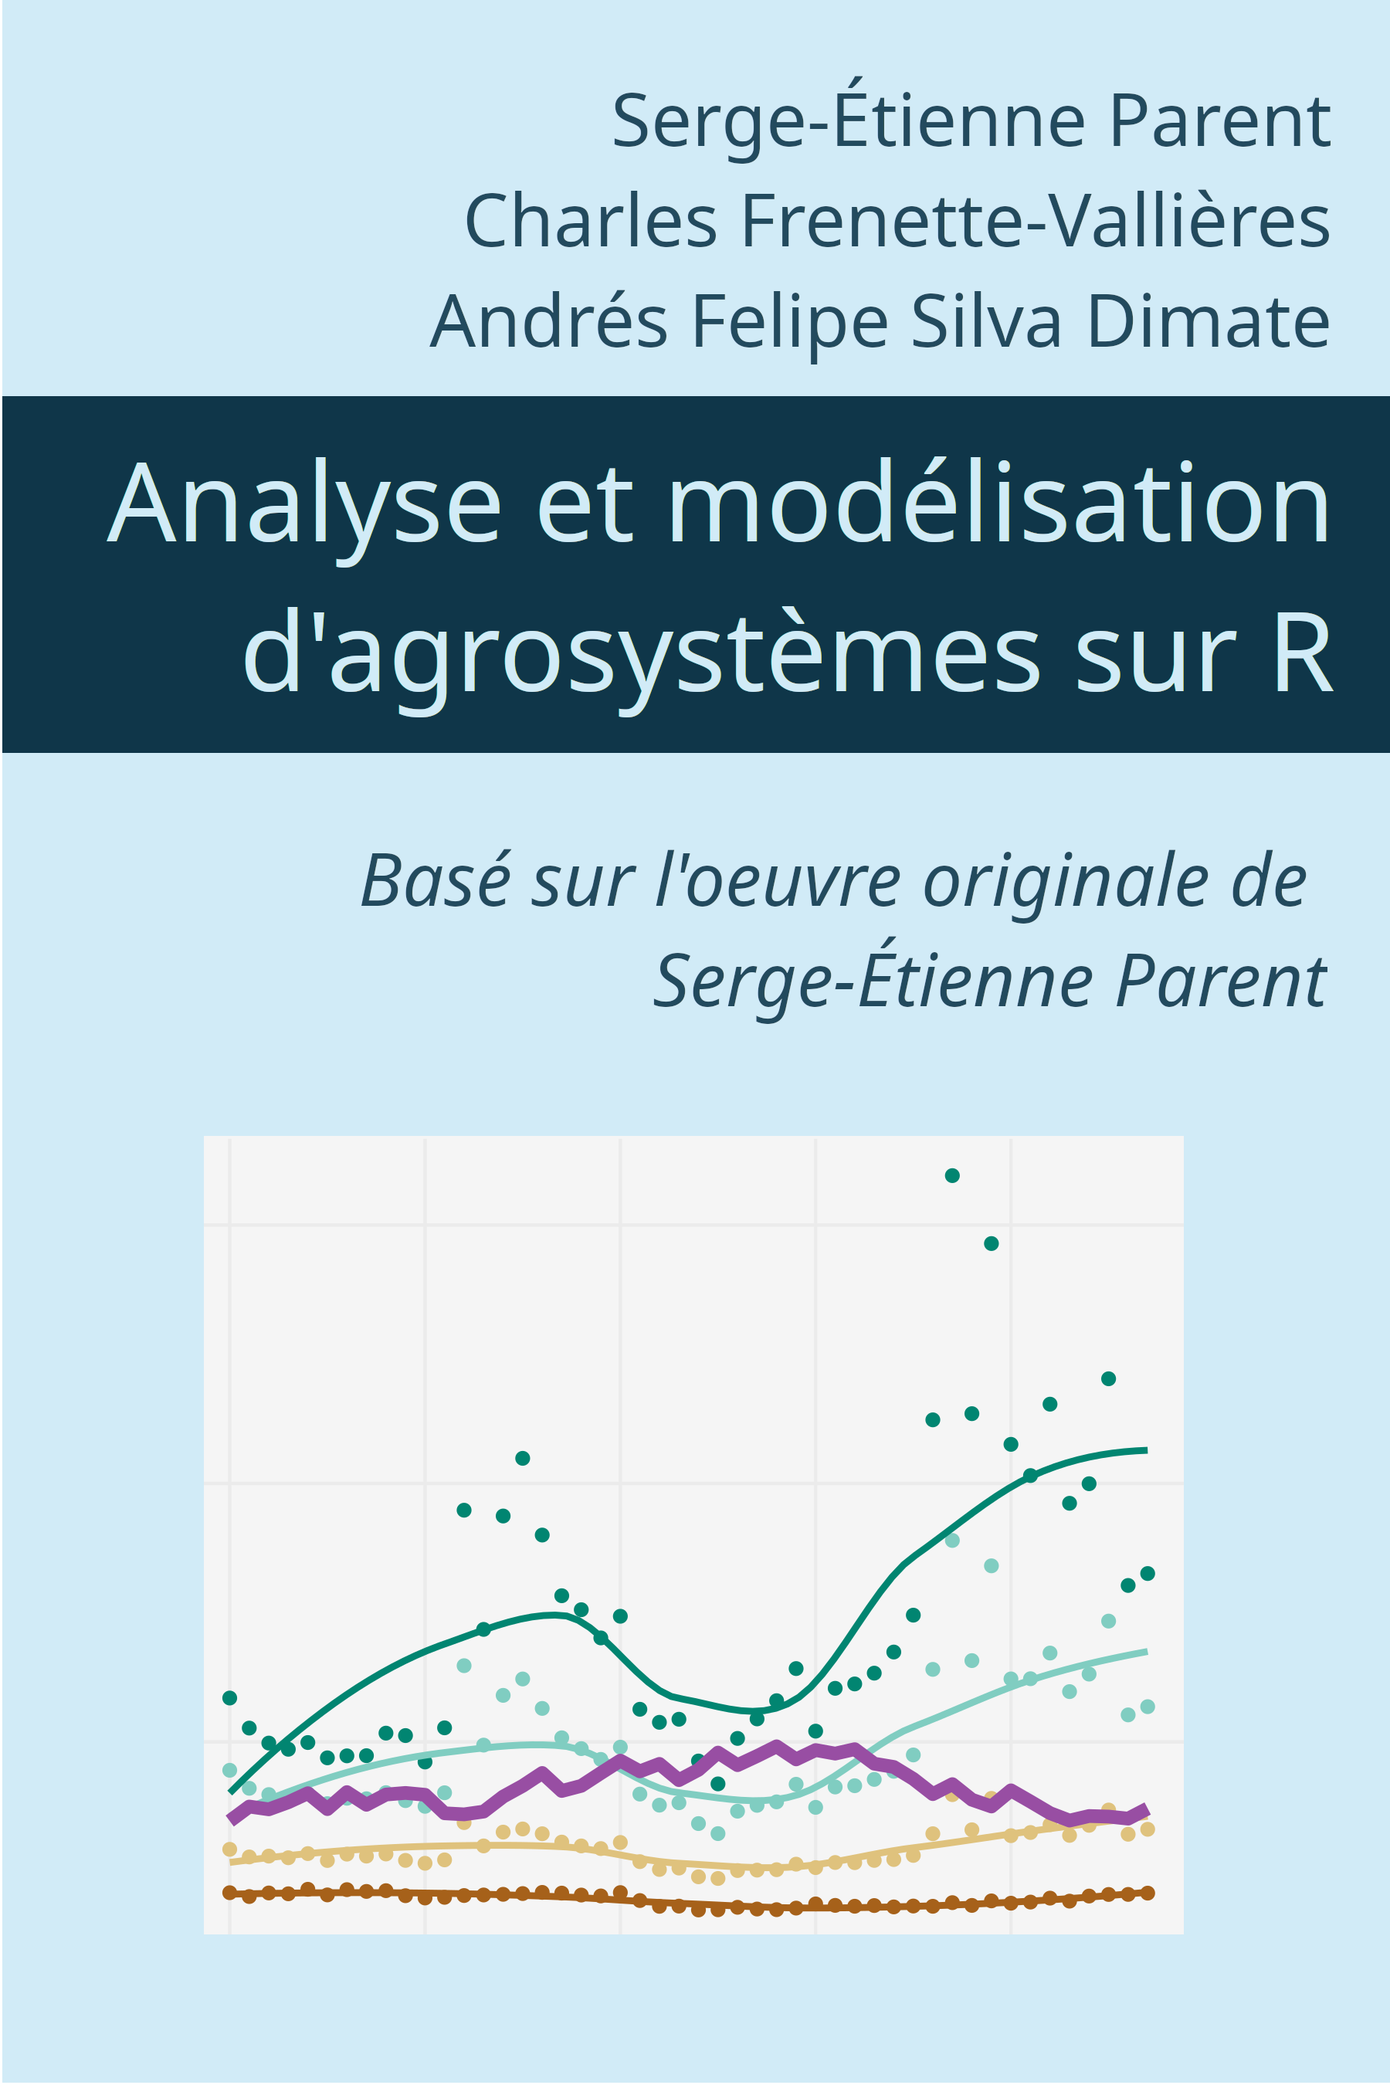
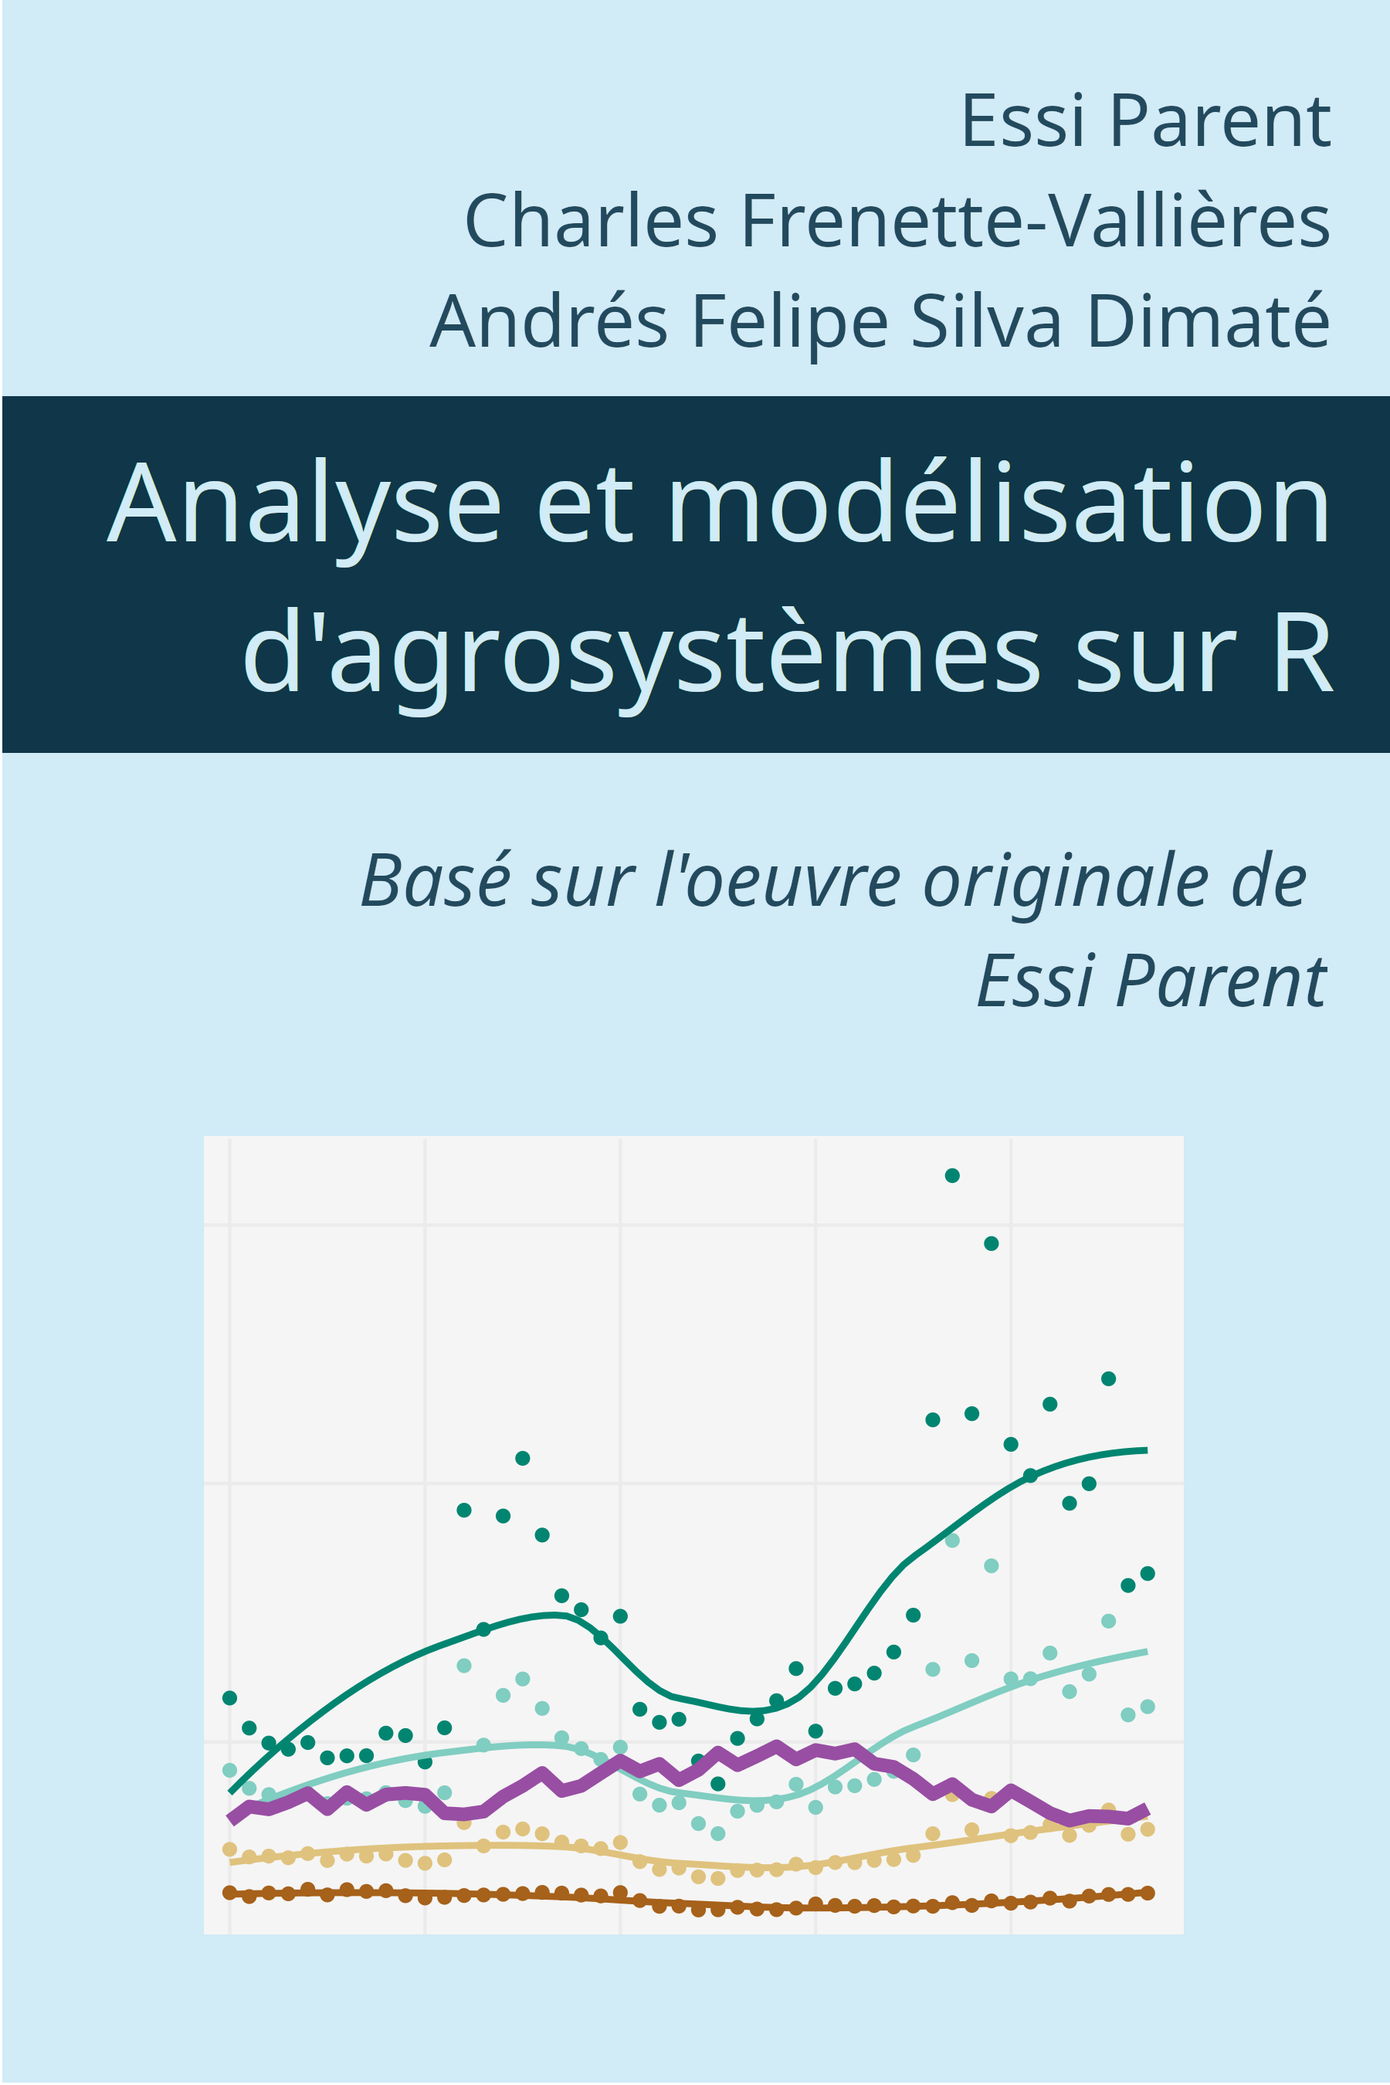
Corrections mineures

Changed region(s): [[0.4356, 0.0311, 0.7778, 0.0933], [0.4667, 0.4356, 0.7778, 0.4978]]

diff --git a/docs/index.html b/docs/index.html
@@ -6,7 +6,7 @@
 
 <meta name="viewport" content="width=device-width, initial-scale=1.0, user-scalable=yes">
 
-<meta name="author" content="Serge-Étienne Parent">
+<meta name="author" content="Essi Parent">
 <meta name="dcterms.date" content="2024-01-07">
 
 <title>Analyse et modélisation d’agroécosystèmes sur R</title>
@@ -239,7 +239,7 @@ ul.task-list li input[type="checkbox"] {
     <div>
     <div class="quarto-title-meta-heading">Author</div>
     <div class="quarto-title-meta-contents">
-             <p>Serge-Étienne Parent </p>
+             <p>Essi Parent </p>
           </div>
   </div>
     
@@ -260,7 +260,7 @@ ul.task-list li input[type="checkbox"] {
 <section id="préface" class="level1 unnumbered">
 <h1 class="unnumbered">Préface</h1><p><img src="images/cover.png" title="Analyse et modélisation d'agroécosystèmes sur R" class="quarto-cover-image img-fluid"></p>
 <p>Ce cours a pour objectif de former les étudiants gradués en génie agroenvironnemental, génie civil, génie écologique, agronomie, biologie, foresterie et écologie en analyse et modélisation de systèmes vivants. Les sujets traités sont l’introduction au langage de programmation R, l’analyse statistique descriptive, la visualisation, la modélisation inférentielle, prédictive et déterministe.</p>
-<p>Ce manuel est basé sur le cours Analyse et modélisation d’agroécosystèmes de <a xmlns:cc="http://creativecommons.org/ns#" href="https://essicolo.github.io/ecologie-mathematique-R/" property="cc:attributionName" rel="cc:attributionURL">Serge-Étienne Parent</a> (voir <a href="http://creativecommons.org/licenses/by-nc-sa/4.0/?ref=chooser-v1">licence</a> au bas de la page). La version proposée ici tient compte des mises à jour des différents outils présentés dans le manuel original. Elle est construite au format Quarto par <a xmlns:cc="http://creativecommons.org/ns#" href="https://github.com/chavalli" property="cc:attributionName" rel="cc:attributionURL">Charles Frenette-Vallières</a> et <a xmlns:cc="http://creativecommons.org/ns#" href="https://github.com/afsilvad" property="cc:attributionName" rel="cc:attributionURL">Andrés Felipe Silva Dimaté</a></p>
+<p>Ce manuel est basé sur le cours Analyse et modélisation d’agroécosystèmes de <a xmlns:cc="http://creativecommons.org/ns#" href="https://essicolo.github.io/ecologie-mathematique-R/" property="cc:attributionName" rel="cc:attributionURL">Essi Parent</a> (voir <a href="http://creativecommons.org/licenses/by-nc-sa/4.0/?ref=chooser-v1">licence</a> au bas de la page). La version proposée ici tient compte des mises à jour des différents outils présentés dans le manuel original. Elle est construite au format Quarto par <a xmlns:cc="http://creativecommons.org/ns#" href="https://github.com/chavalli" property="cc:attributionName" rel="cc:attributionURL">Charles Frenette-Vallières</a> et <a xmlns:cc="http://creativecommons.org/ns#" href="https://github.com/afsilvad" property="cc:attributionName" rel="cc:attributionURL">Andrés Felipe Silva Dimaté</a></p>
 <section id="table-des-matières" class="level2">
 <h2 class="anchored" data-anchor-id="table-des-matières">Table des matières</h2>
 <ol type="1">
@@ -282,7 +282,7 @@ ul.task-list li input[type="checkbox"] {
 <li><a href="./15-modelisation.html">Modélisation de mécanismes écologiques</a></li>
 </ol>
 <p xmlns:cc="http://creativecommons.org/ns#" xmlns:dct="http://purl.org/dc/terms/">
-<a property="dct:title" rel="cc:attributionURL" href="https://essicolo.github.io/ecologie-mathematique-R/">Analyse et modélisation d’agroécosystèmes</a> de <a rel="cc:attributionURL dct:creator" property="cc:attributionName" href="https://github.com/essicolo/ecologie-mathematique-R/">Serge-Étienne Parent</a> est mis à disposition selon les termes de la <a href="http://creativecommons.org/licenses/by-nc-sa/4.0/?ref=chooser-v1" target="_blank" rel="license noopener noreferrer" style="display:inline-block;">licence Creative Commons Attribution - Pas d’Utilisation Commerciale - Partage dans les Mêmes Conditions 4.0 International<img style="height:22px!important;margin-left:3px;vertical-align:text-bottom;" src="https://mirrors.creativecommons.org/presskit/icons/cc.svg?ref=chooser-v1"><img style="height:22px!important;margin-left:3px;vertical-align:text-bottom;" src="https://mirrors.creativecommons.org/presskit/icons/by.svg?ref=chooser-v1"><img style="height:22px!important;margin-left:3px;vertical-align:text-bottom;" src="https://mirrors.creativecommons.org/presskit/icons/nc.svg?ref=chooser-v1"><img style="height:22px!important;margin-left:3px;vertical-align:text-bottom;" src="https://mirrors.creativecommons.org/presskit/icons/sa.svg?ref=chooser-v1"></a>
+<a property="dct:title" rel="cc:attributionURL" href="https://essicolo.github.io/ecologie-mathematique-R/">Analyse et modélisation d’agroécosystèmes</a> de <a rel="cc:attributionURL dct:creator" property="cc:attributionName" href="https://github.com/essicolo/ecologie-mathematique-R/">Essi Parent</a> est mis à disposition selon les termes de la <a href="http://creativecommons.org/licenses/by-nc-sa/4.0/?ref=chooser-v1" target="_blank" rel="license noopener noreferrer" style="display:inline-block;">licence Creative Commons Attribution - Pas d’Utilisation Commerciale - Partage dans les Mêmes Conditions 4.0 International<img style="height:22px!important;margin-left:3px;vertical-align:text-bottom;" src="https://mirrors.creativecommons.org/presskit/icons/cc.svg?ref=chooser-v1"><img style="height:22px!important;margin-left:3px;vertical-align:text-bottom;" src="https://mirrors.creativecommons.org/presskit/icons/by.svg?ref=chooser-v1"><img style="height:22px!important;margin-left:3px;vertical-align:text-bottom;" src="https://mirrors.creativecommons.org/presskit/icons/nc.svg?ref=chooser-v1"><img style="height:22px!important;margin-left:3px;vertical-align:text-bottom;" src="https://mirrors.creativecommons.org/presskit/icons/sa.svg?ref=chooser-v1"></a>
 </p>
 <p>Fondé(e) sur une œuvre à <a href="https://github.com/essicolo/ecologie-mathematique-R/">https://github.com/essicolo/ecologie-mathematique-R/</a>.</p>
 

diff --git a/docs/01-intro.html b/docs/01-intro.html
@@ -316,7 +316,7 @@ ul.task-list li input[type="checkbox"] {
 <p>Alors que la qualité des logiciels propriétaires est généralement suivie par audits, celle des logiciels libres est plutôt soumise à la vigilance communautaire. Chaque approche a ses avantages et inconvénients, mais elles ne sont pas exclusives. Ainsi, les logiciels libres peuvent être audités à l’externe par quiconque décide de le faire. Différentes entreprises, souvent concurrentes, participent tant à cette vigilance qu’au développement des logiciels libres: elles en sont même souvent les instigatrices (comme <a href="https://www.rstudio.com/">RStudio</a>, <a href="https://www.anaconda.com/">Anaconda</a> et <a href="https://www.enthought.com/">Enthought</a>).</p>
 <p>Par ailleurs, ce manuel est distribué librement sous licence Creative commons, selon les termes suivants.</p>
 <p xmlns:cc="http://creativecommons.org/ns#" xmlns:dct="http://purl.org/dc/terms/">
-</p><p><a property="dct:title" rel="cc:attributionURL" href="https://essicolo.github.io/ecologie-mathematique-R/">Analyse et modélisation d’agroécosystèmes</a> de <a rel="cc:attributionURL dct:creator" property="cc:attributionName" href="https://github.com/essicolo/ecologie-mathematique-R/">Serge-Étienne Parent</a> est mis à disposition selon les termes de la <a href="http://creativecommons.org/licenses/by-nc-sa/4.0/?ref=chooser-v1" target="_blank" rel="license noopener noreferrer" style="display:inline-block;">licence Creative Commons Attribution - Pas d’Utilisation Commerciale - Partage dans les Mêmes Conditions 4.0 International<img src="https://mirrors.creativecommons.org/presskit/icons/cc.svg?ref=chooser-v1" style="height:22px!important;margin-left:3px;vertical-align:text-bottom;"><img src="https://mirrors.creativecommons.org/presskit/icons/by.svg?ref=chooser-v1" style="height:22px!important;margin-left:3px;vertical-align:text-bottom;"><img src="https://mirrors.creativecommons.org/presskit/icons/nc.svg?ref=chooser-v1" style="height:22px!important;margin-left:3px;vertical-align:text-bottom;"><img src="https://mirrors.creativecommons.org/presskit/icons/sa.svg?ref=chooser-v1" style="height:22px!important;margin-left:3px;vertical-align:text-bottom;"></a></p>
+</p><p><a property="dct:title" rel="cc:attributionURL" href="https://essicolo.github.io/ecologie-mathematique-R/">Analyse et modélisation d’agroécosystèmes</a> de <a rel="cc:attributionURL dct:creator" property="cc:attributionName" href="https://github.com/essicolo/ecologie-mathematique-R/">Essi Parent</a> est mis à disposition selon les termes de la <a href="http://creativecommons.org/licenses/by-nc-sa/4.0/?ref=chooser-v1" target="_blank" rel="license noopener noreferrer" style="display:inline-block;">licence Creative Commons Attribution - Pas d’Utilisation Commerciale - Partage dans les Mêmes Conditions 4.0 International<img src="https://mirrors.creativecommons.org/presskit/icons/cc.svg?ref=chooser-v1" style="height:22px!important;margin-left:3px;vertical-align:text-bottom;"><img src="https://mirrors.creativecommons.org/presskit/icons/by.svg?ref=chooser-v1" style="height:22px!important;margin-left:3px;vertical-align:text-bottom;"><img src="https://mirrors.creativecommons.org/presskit/icons/nc.svg?ref=chooser-v1" style="height:22px!important;margin-left:3px;vertical-align:text-bottom;"><img src="https://mirrors.creativecommons.org/presskit/icons/sa.svg?ref=chooser-v1" style="height:22px!important;margin-left:3px;vertical-align:text-bottom;"></a></p>
 <p></p>
 <p>Fondé(e) sur une œuvre à <a href="https://github.com/essicolo/ecologie-mathematique-R/" class="uri">https://github.com/essicolo/ecologie-mathematique-R/</a>.</p>
 </section>
@@ -435,7 +435,7 @@ ul.task-list li input[type="checkbox"] {
 </section>
 <section id="à-propos-de-lauteur" class="level2" data-number="1.9">
 <h2 data-number="1.9" class="anchored" data-anchor-id="à-propos-de-lauteur"><span class="header-section-number">1.9</span> À propos de l’auteur</h2>
-<p>Je m’appelle Serge-Étienne Parent. Je suis ingénieur écologue et professeur adjoint au Département des sols et de génie agroalimentaire de l’Université Laval, Québec, Canada. Je crois que la science est le meilleur moyen d’appréhender le monde pour prendre des décisions avisées.</p>
+<p>Je m’appelle Essi Parent. Je suis ingénieur écologue et professeur adjoint au Département des sols et de génie agroalimentaire de l’Université Laval, Québec, Canada. Je crois que la science est le meilleur moyen d’appréhender le monde pour prendre des décisions avisées.</p>
 </section>
 <section id="un-cours-complémentaire-à-dautres-cours" class="level2" data-number="1.10">
 <h2 data-number="1.10" class="anchored" data-anchor-id="un-cours-complémentaire-à-dautres-cours"><span class="header-section-number">1.10</span> Un cours complémentaire à d’autres cours</h2>

diff --git a/README.md b/README.md
@@ -2,7 +2,7 @@
 
 Ce cours a pour objectif de former les étudiants gradués en génie agroenvironnemental, génie civil, génie écologique, agronomie, biologie, foresterie et écologie en analyse et modélisation de systèmes vivants. Les sujets traités sont l’introduction au langage de programmation R, l’analyse statistique descriptive, la visualisation, la modélisation inférentielle, prédictive et déterministe.
 
-Ce manuel est basé sur le cours Analyse et modélisation d'agroécosystèmes de <a xmlns:cc="http://creativecommons.org/ns#" href="https://essicolo.github.io/ecologie-mathematique-R/" property="cc:attributionName" rel="cc:attributionURL">Serge-Étienne Parent</a> (voir [licence](http://creativecommons.org/licenses/by-nc-sa/4.0/?ref=chooser-v1) au bas de la page). La version proposée ici tient compte des mises à jour des différents outils présentés dans le manuel original. Elle est construite au format Quarto par <a xmlns:cc="http://creativecommons.org/ns#" href="https://github.com/chavalli" property="cc:attributionName" rel="cc:attributionURL">Charles Frenette-Vallières</a> et <a xmlns:cc="http://creativecommons.org/ns#" href="https://github.com/afsilvad" property="cc:attributionName" rel="cc:attributionURL">Andrés Felipe Silva Dimaté</a>
+Ce manuel est basé sur le cours Analyse et modélisation d'agroécosystèmes de <a xmlns:cc="http://creativecommons.org/ns#" href="https://essicolo.github.io/ecologie-mathematique-R/" property="cc:attributionName" rel="cc:attributionURL">Essi Parent</a> (voir [licence](http://creativecommons.org/licenses/by-nc-sa/4.0/?ref=chooser-v1) au bas de la page). La version proposée ici tient compte des mises à jour des différents outils présentés dans le manuel original. Elle est construite au format Quarto par <a xmlns:cc="http://creativecommons.org/ns#" href="https://github.com/chavalli" property="cc:attributionName" rel="cc:attributionURL">Charles Frenette-Vallières</a> et <a xmlns:cc="http://creativecommons.org/ns#" href="https://github.com/afsilvad" property="cc:attributionName" rel="cc:attributionURL">Andrés Felipe Silva Dimaté</a>
 
 ## Table des matières
 
@@ -23,6 +23,6 @@ Ce manuel est basé sur le cours Analyse et modélisation d'agroécosystèmes de
 15. [Les données géospatiales](14-donnees-spatiales)
 16. [Modélisation de mécanismes écologiques](15-modelisation.qmd)
 
-<p xmlns:cc="http://creativecommons.org/ns#" xmlns:dct="http://purl.org/dc/terms/"><a property="dct:title" rel="cc:attributionURL" href="https://essicolo.github.io/ecologie-mathematique-R/">Analyse et modélisation d'agroécosystèmes</a> de <a rel="cc:attributionURL dct:creator" property="cc:attributionName" href="https://github.com/essicolo/ecologie-mathematique-R/">Serge-Étienne Parent</a> est mis à disposition selon les termes de la <a href="http://creativecommons.org/licenses/by-nc-sa/4.0/?ref=chooser-v1" target="_blank" rel="license noopener noreferrer" style="display:inline-block;">licence Creative Commons Attribution - Pas d’Utilisation Commerciale - Partage dans les Mêmes Conditions 4.0 International<img style="height:22px!important;margin-left:3px;vertical-align:text-bottom;" src="https://mirrors.creativecommons.org/presskit/icons/cc.svg?ref=chooser-v1"><img style="height:22px!important;margin-left:3px;vertical-align:text-bottom;" src="https://mirrors.creativecommons.org/presskit/icons/by.svg?ref=chooser-v1"><img style="height:22px!important;margin-left:3px;vertical-align:text-bottom;" src="https://mirrors.creativecommons.org/presskit/icons/nc.svg?ref=chooser-v1"><img style="height:22px!important;margin-left:3px;vertical-align:text-bottom;" src="https://mirrors.creativecommons.org/presskit/icons/sa.svg?ref=chooser-v1"></a></p> 
+<p xmlns:cc="http://creativecommons.org/ns#" xmlns:dct="http://purl.org/dc/terms/"><a property="dct:title" rel="cc:attributionURL" href="https://essicolo.github.io/ecologie-mathematique-R/">Analyse et modélisation d'agroécosystèmes</a> de <a rel="cc:attributionURL dct:creator" property="cc:attributionName" href="https://github.com/essicolo/ecologie-mathematique-R/">Essi Parent</a> est mis à disposition selon les termes de la <a href="http://creativecommons.org/licenses/by-nc-sa/4.0/?ref=chooser-v1" target="_blank" rel="license noopener noreferrer" style="display:inline-block;">licence Creative Commons Attribution - Pas d’Utilisation Commerciale - Partage dans les Mêmes Conditions 4.0 International<img style="height:22px!important;margin-left:3px;vertical-align:text-bottom;" src="https://mirrors.creativecommons.org/presskit/icons/cc.svg?ref=chooser-v1"><img style="height:22px!important;margin-left:3px;vertical-align:text-bottom;" src="https://mirrors.creativecommons.org/presskit/icons/by.svg?ref=chooser-v1"><img style="height:22px!important;margin-left:3px;vertical-align:text-bottom;" src="https://mirrors.creativecommons.org/presskit/icons/nc.svg?ref=chooser-v1"><img style="height:22px!important;margin-left:3px;vertical-align:text-bottom;" src="https://mirrors.creativecommons.org/presskit/icons/sa.svg?ref=chooser-v1"></a></p> 
 
 Fondé(e) sur une œuvre à [https://github.com/essicolo/ecologie-mathematique-R/](https://github.com/essicolo/ecologie-mathematique-R/).
